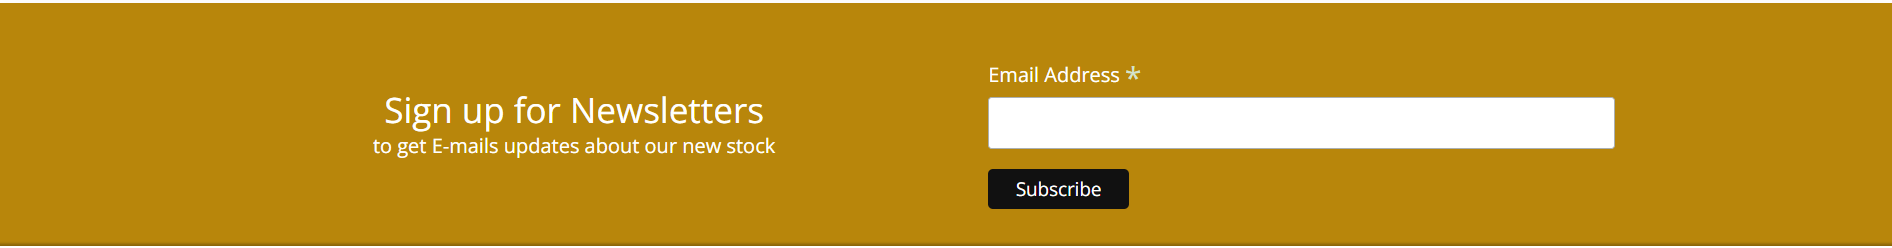
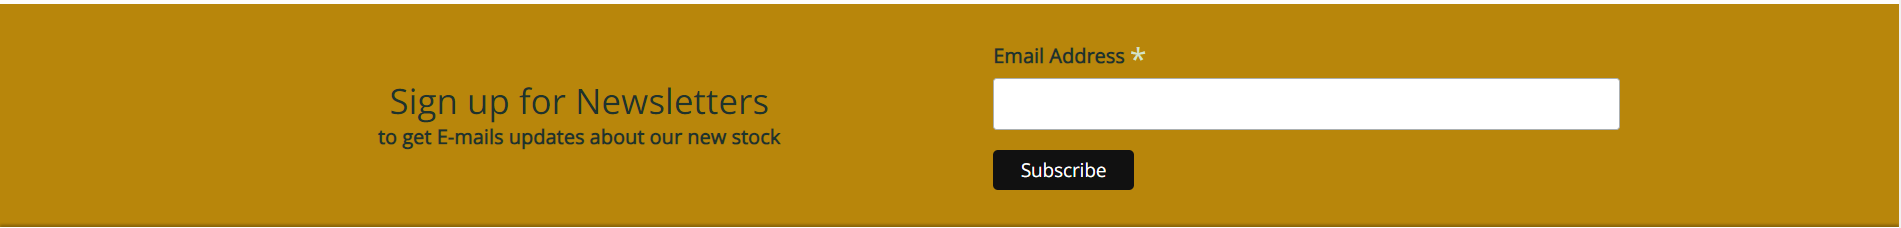
Added Lighthouse to Testing

diff --git a/TESTING.md b/TESTING.md
@@ -23,6 +23,7 @@ This document provides an overview of the testing strategies applied throughout 
     - [CSS](#css)
     - [JavaScript](#javascript)
     - [Python](#python)
+    - [Lighthouse](#lighthouse)
 ---
 
 ## User Story Testing
@@ -126,9 +127,9 @@ I've used [HTML W3C Validator](https://validator.w3.org) to validate all of my H
 | Edit Interior Design Service   | ![screenshot](documentation/readme_images/testing/html_validation/edit_interior.PNG)        | Pass: No Errors      |
 | Delete Interior Design Service | ![screenshot](documentation/readme_images/testing/html_validation/delete_interior.PNG)        | Pass: No Errors |
 | Decor Dreams Projects          | ![screenshot](documentation/readme_images/testing/html_validation/decor_projects.PNG)  | Pass: No Errors |
-| Add Interior Design Project    | ![screenshot](documentation/readme_images/testing/html_validation/add_decor.PNG)        | Pass: No Errors      |
-| Edit Decor Dreams Projects     | ![screenshot](documentation/readme_images/testing/html_validation/edit_decor.PNG)  | Pass: No Errors |
-| Delete Interior Design         | ![screenshot](documentation/readme_images/testing/html_validation/delete_decor.PNG)        | Pass: No Errors |
+| Add Decor Dreams Project       | ![screenshot](documentation/readme_images/testing/html_validation/add_decor.PNG)        | Pass: No Errors      |
+| Edit Decor Dreams Project      | ![screenshot](documentation/readme_images/testing/html_validation/edit_decor.PNG)  | Pass: No Errors |
+| Delete Decor Dreams Project    | ![screenshot](documentation/readme_images/testing/html_validation/delete_decor.PNG)        | Pass: No Errors |
 | Testimonials                   | ![screenshot](documentation/readme_images/testing/html_validation/testimonials.PNG)  | Pass: No Errors |
 | Add Testimonial                | ![screenshot](documentation/readme_images/testing/html_validation/add_testimonial.PNG)        | Pass: No Errors |
 | Edit Testimonial               | ![screenshot](documentation/readme_images/testing/html_validation/edit_testimonial.PNG)        | Pass: No Errors |
@@ -231,3 +232,44 @@ Below are observed the most relevant items.
 |--------------------------------|------------|-----------|
 | *models.py*                     | ![models](documentation/readme_images/testing/python/testimonials/models.PNG)  | Pass: No Errors |
 | *views.py*                     | ![views](documentation/readme_images/testing/python/testimonials/views.PNG)  | Pass: No Errors |
+
+### Lighthouse
+
+I conducted Lighthouse validation on all pages, including both mobile and desktop versions, to assess accessibility and performance. Initially, a warning was flagged regarding 'Background and foreground colors do not have a sufficient contrast ratio' in some elements. I addressed this issue by modifying the colors, referencing the [WebAIM Contrast Checker](https://webaim.org/resources/contrastchecker/), to achieve the recommended Contrast Ratio. Subsequently, I implemented style adjustments based on Lighthouse recommendations, resulting in the following improved scores.
+
+| Page                           | Performance  | Accessibility | Best Practices  | SEO |
+|--------------------------------|:------------:|:-------------:|:---------------:|:---:|
+|                                |              |               |                 |     |
+| Desktop                        |              |               |                 |     |
+| Home                           |           89 |            96 |             100 | 100 |
+| Products                       |           94 |            98 |             100 | 100 |
+| Product Details                |           98 |            98 |             100 | 100 |
+| Add Product                    |           99 |           100 |             100 | 100 |
+| Edit Product                   |           96 |           100 |             100 | 100 |
+| Confirm Delete Product         |           97 |           100 |             100 | 100 |
+| Bag                            |           98 |            98 |             100 | 100 |
+| Checkout                       |           94 |            96 |             100 | 100 |
+| Profile                        |           98 |           100 |             100 | 100 |
+| Interior Design Services       |           99 |           100 |             100 | 100 |
+| Add Interior Design Service    |           99 |           100 |             100 | 100 |
+| Edit Interior Design Service   |           99 |           100 |             100 | 100 |
+| Delete Interior Design Service |           99 |           100 |             100 | 100 |
+| Decor Dreams Projects          |           99 |           100 |             100 | 100 |
+| Add Decor Dreams Project       |           99 |           100 |             100 | 100 |
+| Edit Decor Dreams Project      |           99 |           100 |             100 | 100 |
+| Delete Decor Dreams Project    |           99 |           100 |             100 | 100 |
+| Testimonials                   |           99 |            98 |             100 | 100 |
+| Add Testimonial                |           99 |           100 |             100 | 100 |
+| Edit Testimonial               |           99 |           100 |             100 | 100 |
+| Delete Testimonial             |           99 |           100 |             100 | 100 |
+| Contact                        |           99 |           100 |             100 | 100 |
+| Consultation Dashboard         |           99 |           100 |             100 | 100 |
+| Consultation Detail            |           99 |           100 |             100 | 100 |
+| Delete Consultation            |           99 |           100 |             100 | 100 |
+| Sign In                        |           99 |            98 |              98 | 100 |
+| Sign Up                        |           99 |            98 |             100 | 100 |
+| Log Out                        |           99 |           100 |             100 | 100 |
+| Password Reset                 |           98 |           100 |             100 | 100 |
+
+The Lighthouse audit has been instrumental in pinpointing areas where the site performs well and where improvements can be made. The areas identified for improvement, such as image optimization and resource minimization, are planned for future iterations of the site. The current focus has been to meet functionality requirements within a strict deadline, with performance optimizations slated for subsequent updates.
+
